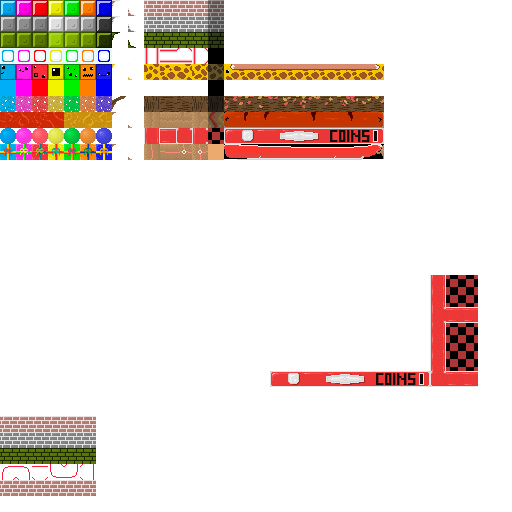
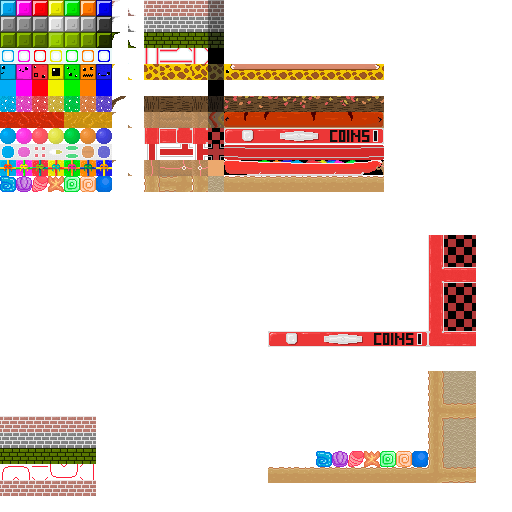
Add new skins

Changed region(s): [[0.5, 0.4375, 0.9375, 0.9688], [0.2812, 0.2812, 0.75, 0.375], [0.0, 0.2812, 0.2188, 0.375]]

diff --git a/qb/Gui/SkinManager.cs b/qb/Gui/SkinManager.cs
@@ -25,7 +25,9 @@ namespace qb.Gui
                 newSkin(("Leaf Fall", "Листопад")),
                 newSkin(("Hot Dog", "Хот дог")),
                 newSkin(("Vending Machine", "Торговый автомат")),
+                newSkin(("Medicine", "Аптечка")),
                 newSkin(("New Year", "Новый год")),
+                newSkin(("Beach", "Пляж")),
             }.ToImmutableArray();
 
 
